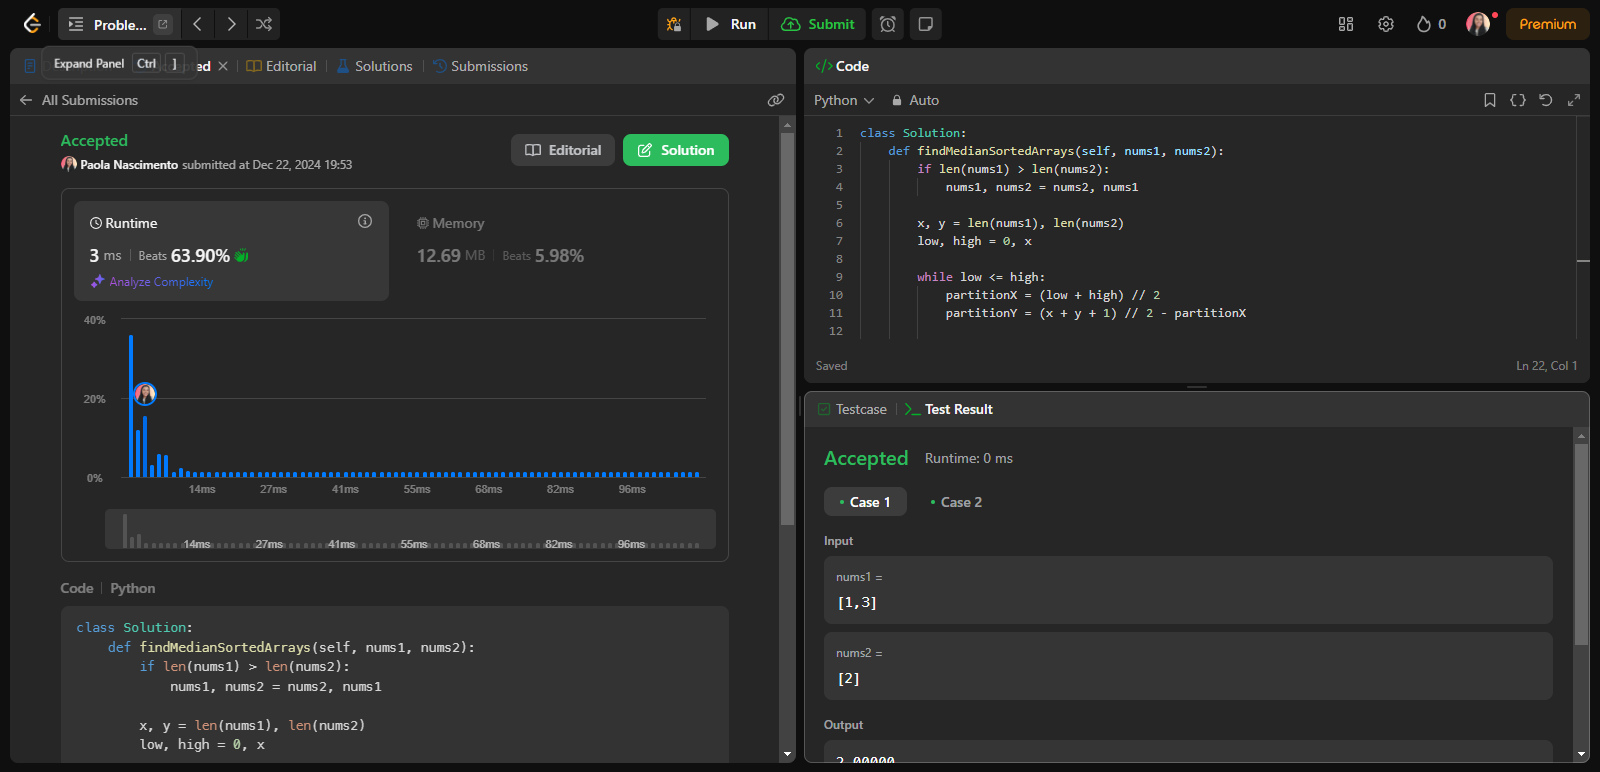
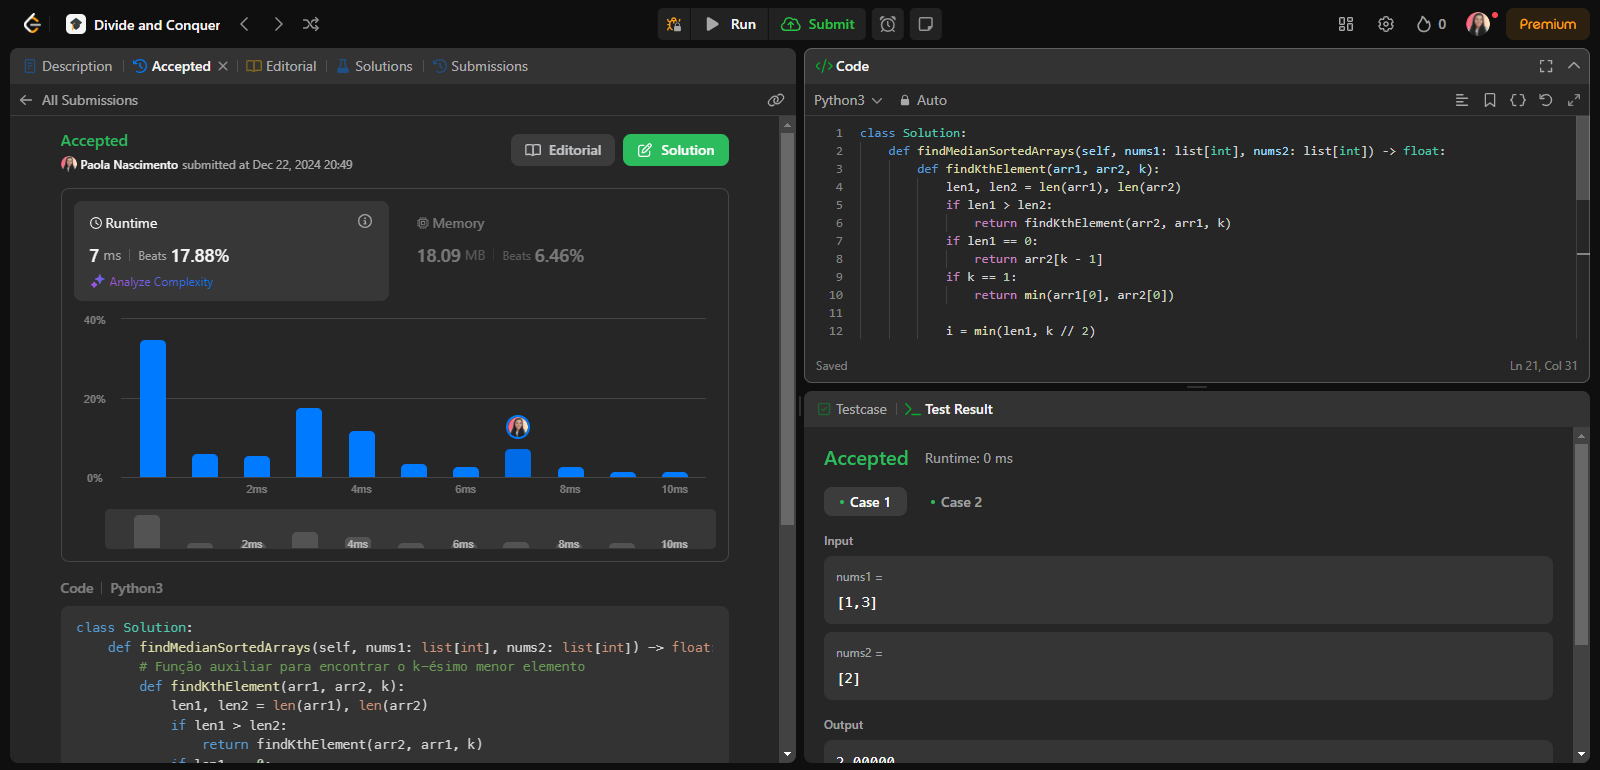
adição da questão 53

diff --git a/problem4.py b/problem4.py
@@ -1,33 +1,45 @@
 class Solution:
-    def findMedianSortedArrays(self, nums1, nums2):
-     
-        # Garantir que nums1 seja o menor array
-        if len(nums1) > len(nums2):
-            nums1, nums2 = nums2, nums1
-
-        x, y = len(nums1), len(nums2)
-        low, high = 0, x
-        
-        while low <= high:
-            partitionX = (low + high) // 2
-            partitionY = (x + y + 1) // 2 - partitionX
+    def findMedianSortedArrays(self, nums1: list[int], nums2: list[int]) -> float:
+        # Função auxiliar para encontrar o k-ésimo menor elemento em dois arrays ordenados
+        def findKthElement(arr1, arr2, k):
+            len1, len2 = len(arr1), len(arr2)
             
-            # Elementos adjacentes aos cortes
-            maxX = float('-inf') if partitionX == 0 else nums1[partitionX - 1]
-            minX = float('inf') if partitionX == x else nums1[partitionX]
+            # Garante que arr1 seja o menor dos dois arrays
+            if len1 > len2:
+                return findKthElement(arr2, arr1, k)
             
-            maxY = float('-inf') if partitionY == 0 else nums2[partitionY - 1]
-            minY = float('inf') if partitionY == y else nums2[partitionY]
+            # Se arr1 está vazio, o k-ésimo menor é simplesmente o k-ésimo elemento de arr2
+            if len1 == 0:
+                return arr2[k - 1]
             
-            # Verificar condições da mediana
-            if maxX <= minY and maxY <= minX:
-                # Caso total de elementos ímpar
-                if (x + y) % 2 == 1:
-                    return max(maxX, maxY)
-                # Caso total de elementos par
-                return (max(maxX, maxY) + min(minX, minY)) / 2.0
-            elif maxX > minY:
-                high = partitionX - 1
+            # Se estamos procurando o primeiro elemento, retornamos o menor entre os primeiros elementos de arr1 e arr2
+            if k == 1:
+                return min(arr1[0], arr2[0])
+            
+            # Dividimos k em duas partes: i e j
+            # i não pode ser maior que o tamanho de arr1 e j não pode ser maior que o tamanho de arr2
+            i = min(len1, k // 2)
+            j = min(len2, k // 2)
+            
+            # Compara os elementos arr1[i-1] e arr2[j-1]
+            if arr1[i - 1] > arr2[j - 1]:
+                # Se arr1[i-1] é maior, descartamos os primeiros j elementos de arr2
+                # e ajustamos k para k - j
+                return findKthElement(arr1, arr2[j:], k - j)
             else:
-                low = partitionX + 1
+                # Caso contrário, descartamos os primeiros i elementos de arr1
+                # e ajustamos k para k - i
+                return findKthElement(arr1[i:], arr2, k - i)
+
+        # Calcula o comprimento total dos dois arrays
+        total_len = len(nums1) + len(nums2)
         
+        # Se o comprimento total é ímpar, a mediana é o elemento do meio
+        if total_len % 2 == 1:
+            return float(findKthElement(nums1, nums2, total_len // 2 + 1))
+        else:
+            # Se o comprimento total é par, a mediana é a média dos dois elementos do meio
+            left = findKthElement(nums1, nums2, total_len // 2)
+            right = findKthElement(nums1, nums2, total_len // 2 + 1)
+            return (left + right) / 2.0
+

diff --git a/problem53.py b/problem53.py
@@ -1,0 +1,44 @@
+class Solution:
+    def maxSubArray(self, nums: list[int]) -> int:
+        # Função auxiliar que vai fazer a mágica da divisão e conquista
+        def helper(nums, left, right):
+            # Se o intervalo tem apenas um elemento, retorna esse elemento
+            if left == right:
+                return nums[left]
+            
+            # Encontra o meio do intervalo
+            mid = (left + right) // 2
+
+            # Calcula a soma máxima do subarray na metade esquerda
+            left_max = helper(nums, left, mid)
+
+            # Calcula a soma máxima do subarray na metade direita
+            right_max = helper(nums, mid + 1, right)
+            
+            # Agora precisamos calcular a soma máxima que cruza o meio
+
+            # Inicializamos as variáveis para calcular a soma máxima à esquerda do meio
+            left_sum = float('-inf')  # Começa com menos infinito para garantir que qualquer soma será maior
+            current_sum = 0
+            for i in range(mid, left - 1, -1):  # Vamos do meio até o início do intervalo
+                current_sum += nums[i]
+                left_sum = max(left_sum, current_sum)  # Mantém a maior soma encontrada
+
+            # Inicializamos as variáveis para calcular a soma máxima à direita do meio
+            right_sum = float('-inf')  # Também começa com menos infinito
+            current_sum = 0
+            for i in range(mid + 1, right + 1):  # Vamos do meio + 1 até o fim do intervalo
+                current_sum += nums[i]
+                right_sum = max(right_sum, current_sum)  # Mantém a maior soma encontrada
+            
+            # A soma máxima que cruza o meio é a soma das maiores somas à esquerda e à direita
+            cross_sum = left_sum + right_sum
+            
+            # Retorna o maior valor entre as três opções:
+            # 1. A maior soma na metade esquerda
+            # 2. A maior soma na metade direita
+            # 3. A maior soma que cruza o meio
+            return max(left_max, right_max, cross_sum)
+        
+        # Chamamos a função auxiliar com os índices do início e do fim do array
+        return helper(nums, 0, len(nums) - 1)
